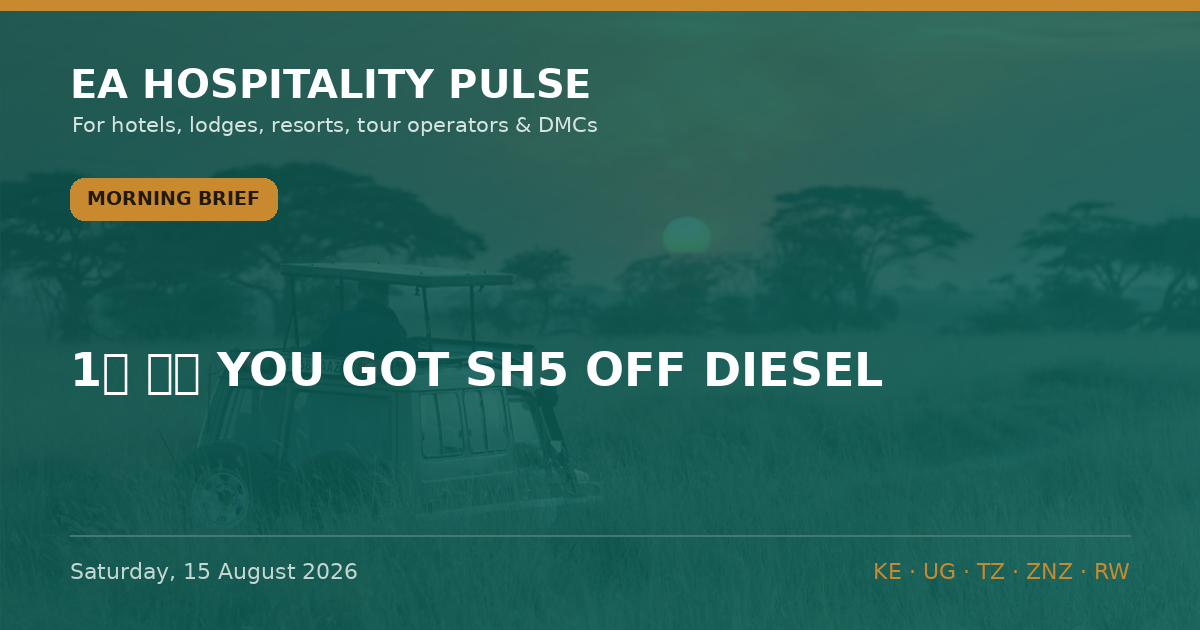
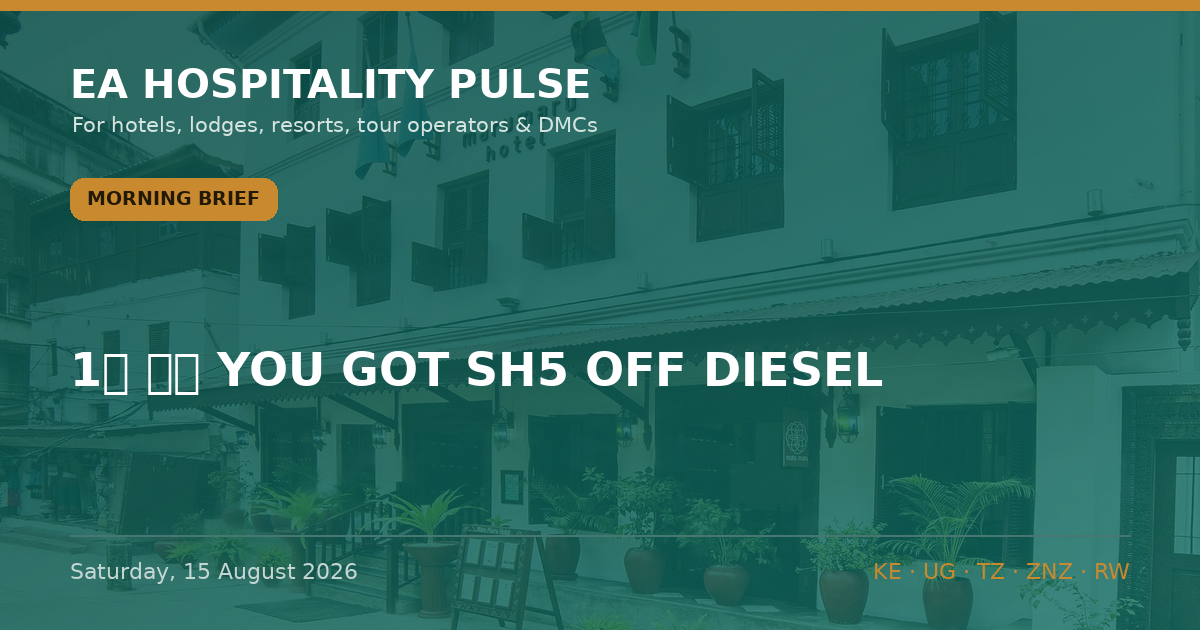
Auto-build: 2026-08-15 05:16 UTC

diff --git a/editions/pulse-2026-08-15-morning.html b/editions/pulse-2026-08-15-morning.html
@@ -73,7 +73,7 @@ footer.s{text-align:center;color:var(--muted);font-family:Helvetica Neue,Arial,s
 <div class="wrap">
   <article class="art">
     <img class="hero" src="../og/pulse-2026-08-15-morning-clean.png" alt="Morning Brief — Saturday, 15 August 2026" loading="eager">
-    
+    <p class="hcredit">Photo: Marumaruzanzibar · <a href="https://commons.wikimedia.org/wiki/File:1._Entrance_Hotel_Maru_Maru-min.jpg" target="_blank" rel="noopener nofollow">Wikimedia Commons</a> · <a href="https://creativecommons.org/licenses/by-sa/4.0" target="_blank" rel="noopener nofollow">CC BY-SA 4.0</a></p>
     <a class="nav" href="../index.html#archive">← All editions</a>
     <div class="kicker"><span class="badge">Morning Brief</span><time datetime="2026-08-15">Saturday, 15 August 2026</time></div>
     <h1>1⃣ 🇰🇪 YOU GOT SH5 OFF DIESEL.</h1>

diff --git a/index.html b/index.html
@@ -352,7 +352,7 @@
   .pl-brand{font-family:'Helvetica Neue',Arial,sans-serif;font-size:12px;font-weight:600;color:var(--muted);background:var(--sand-2);padding:2px 8px;border-radius:20px;margin-left:4px;white-space:nowrap}
   .pl-detail{font-size:14px;color:var(--muted);margin:6px 0 8px;line-height:1.55}
 </style>
-<!--BUILD_STAMP:20260815-0814--></head>
+<!--BUILD_STAMP:20260815-0516--></head>
 <body>
 <header class="site">
   <div class="wrap topbar">

diff --git a/data.js b/data.js
@@ -1870,4 +1870,4 @@ window.INSIGHTS = [
   "editionKey": "evening"
  }
 ];
-window.BUILT_AT = "2026-08-15 08:14";
+window.BUILT_AT = "2026-08-15 05:16";

diff --git a/ledger.js b/ledger.js
@@ -1,5 +1,5 @@
 window.LEDGER = {
- "updated": "2026-08-15 08:15",
+ "updated": "2026-08-15 05:16",
  "stats": {
   "total": 81,
   "open": 67,
